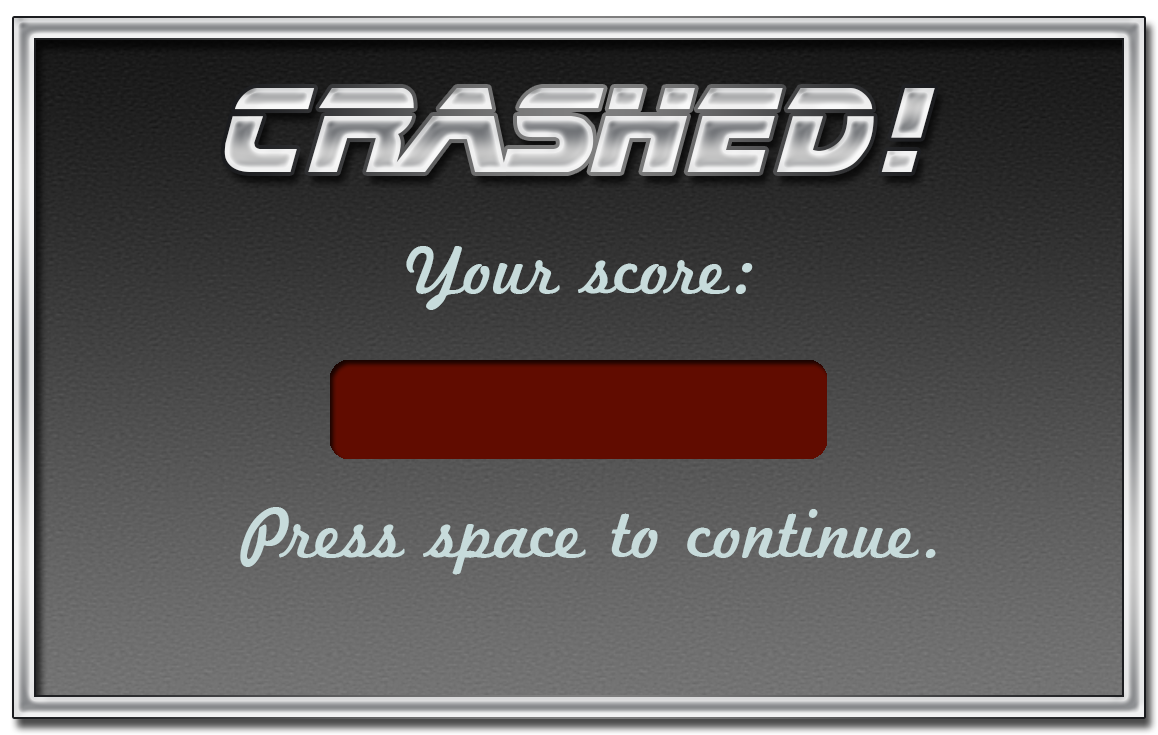
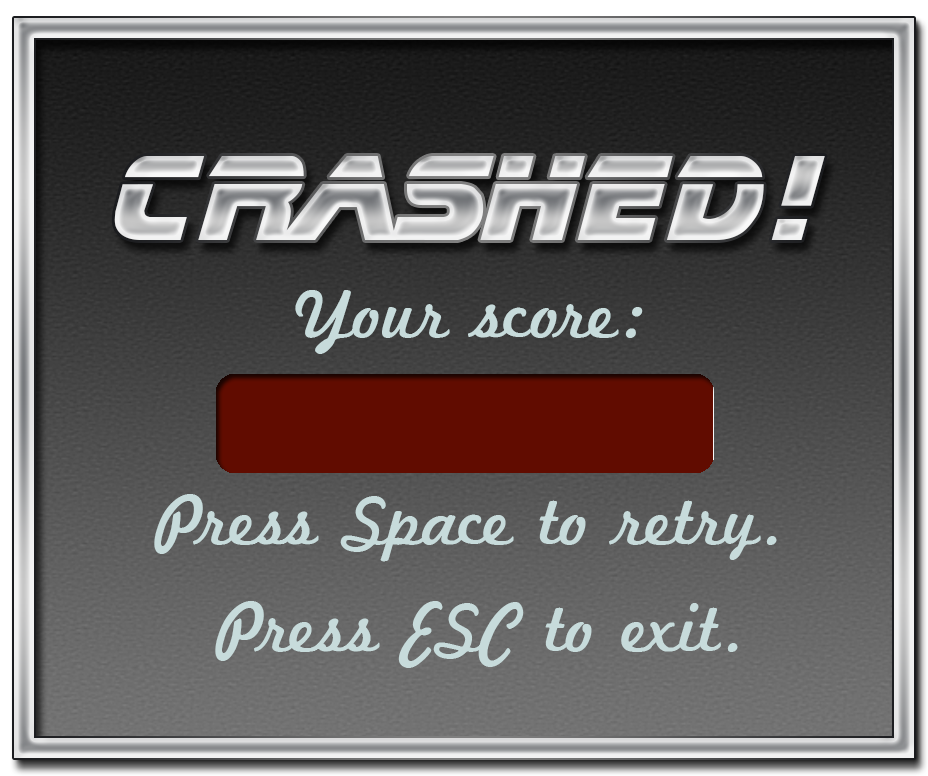
Neues Dialog

Changed region(s): [[0.0, 0.0, 1.0, 0.9878], [0.125, 0.0898, 0.9062, 0.449], [0.1562, 0.4789, 0.8438, 0.868]]

diff --git a/src/Application.cpp b/src/Application.cpp
@@ -87,7 +87,7 @@ Application::Application(GLFWwindow* pWin, GamestateManager* gm) :
 	HUDModels.push_back(score);
 
 	//Dialog Fenster wird bereits geladen aber noch nicht gemalt
-	dialog = new HUDElement(0.367f, 0.4f, 0.6f, 0.0f, Texture::LoadShared(ASSET_DIRECTORY "Dialog.png"));
+	dialog = new HUDElement(0.417f, 0.38f, 0.5f, 0.0f, Texture::LoadShared(ASSET_DIRECTORY "Dialog.png"));
 	dialog->shader(new HUDShader(), true);
 
 	dialogScore = new Score(0.55f, 0.548f, 0.04f);
